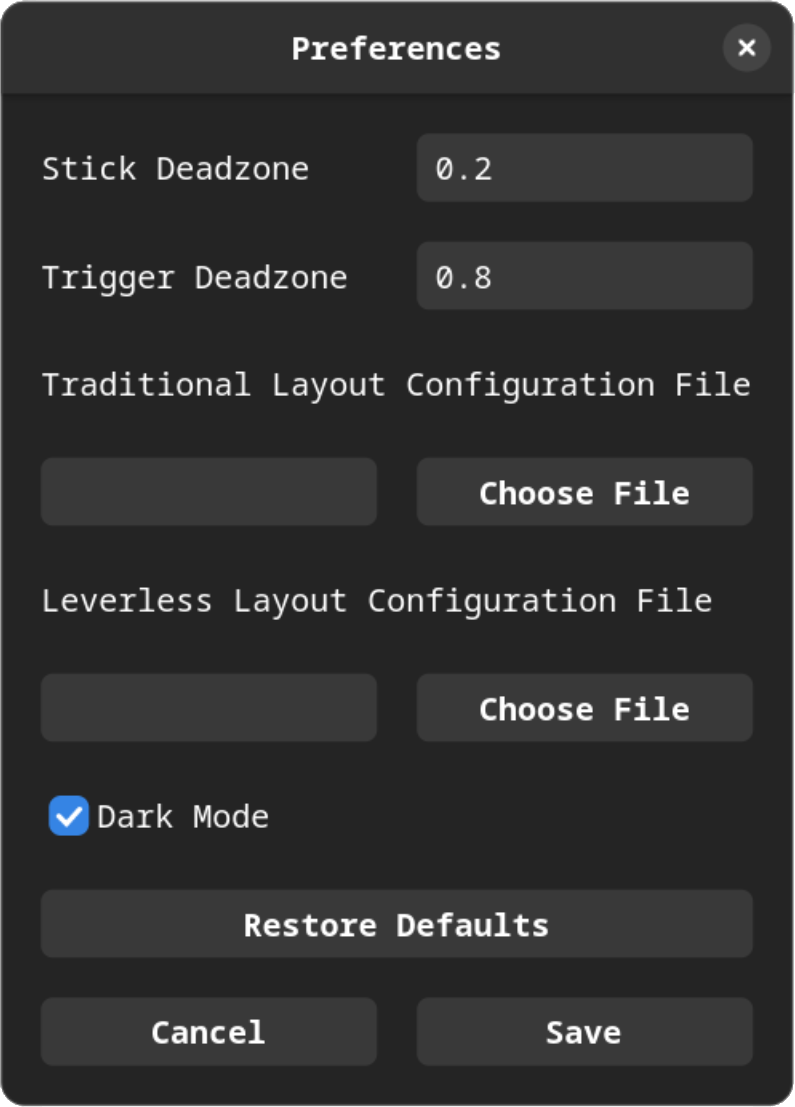
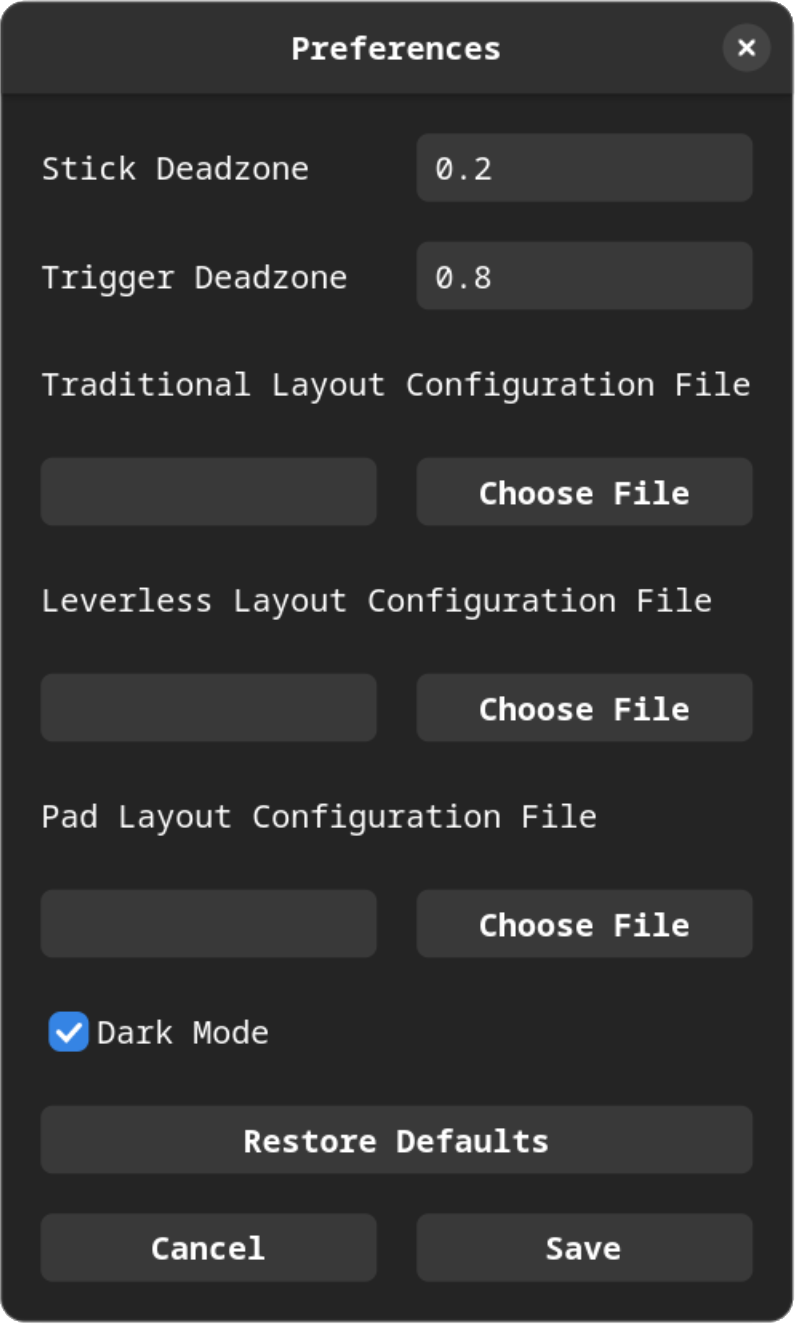
repo: Update screenshots
Update screenshots for the readme

diff --git a/README.md b/README.md
@@ -21,7 +21,7 @@ preferred operating system.
 
 ### Graphical User Interface
 
-<img src="screenshots/main.png" alt="Main window" height="350"/><img src="screenshots/preferences.png" alt="Main window" height="350"/>
+<img src="screenshots/main.png" alt="Main window" width="272"/><img src="screenshots/preferences.png" alt="Preferences window" width="272"/>
 
 Upon starting the program, users are greeted with a user-friendly interface
 from which they can launch the layout of their choice.
@@ -36,7 +36,7 @@ upon being activated.
 
 ### Default Layouts 
 
-<img src="screenshots/traditional.png" alt="Main window" width="340"/><img src="screenshots/leverless.png" alt="Main window" width="340"/>
+<img src="screenshots/traditional.png" alt="Traditional layout" width="272"/><img src="screenshots/leverless.png" alt="Leverless layout" width="272"/><img src="screenshots/pad.png" alt="Pad layout" width="272"/>
 
 The default layouts feature an all-green background, as they are intended to be
 chroma-keyed out using streaming software.
